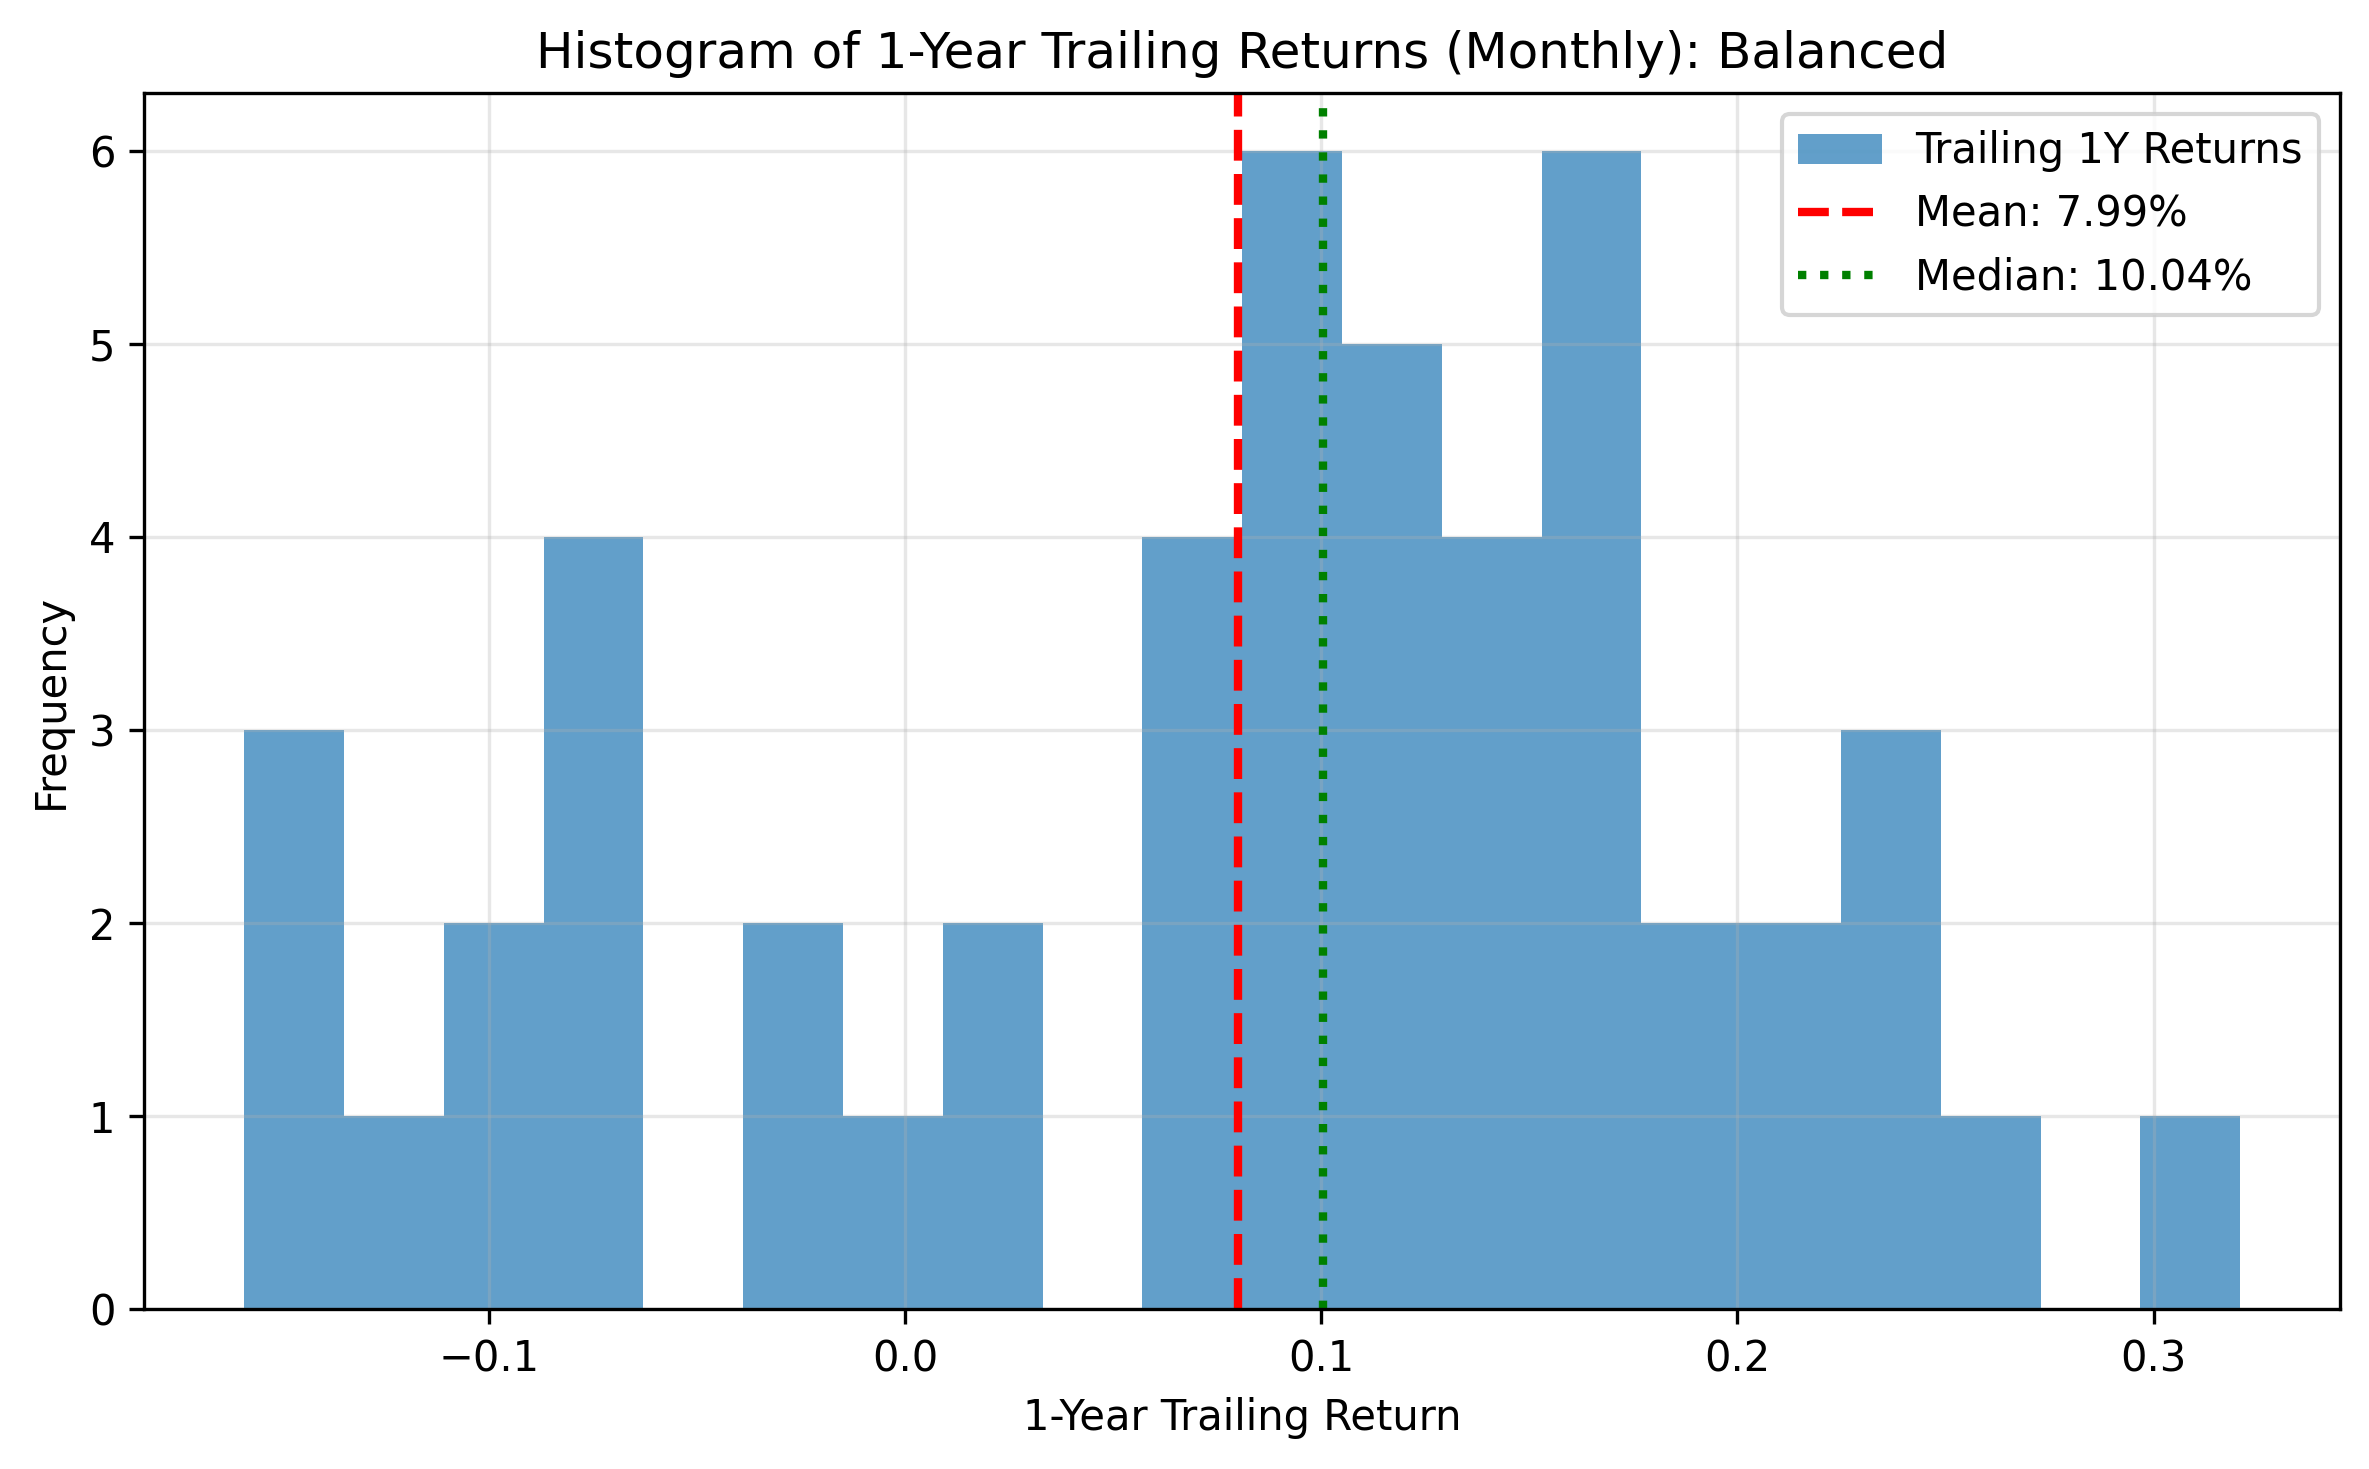
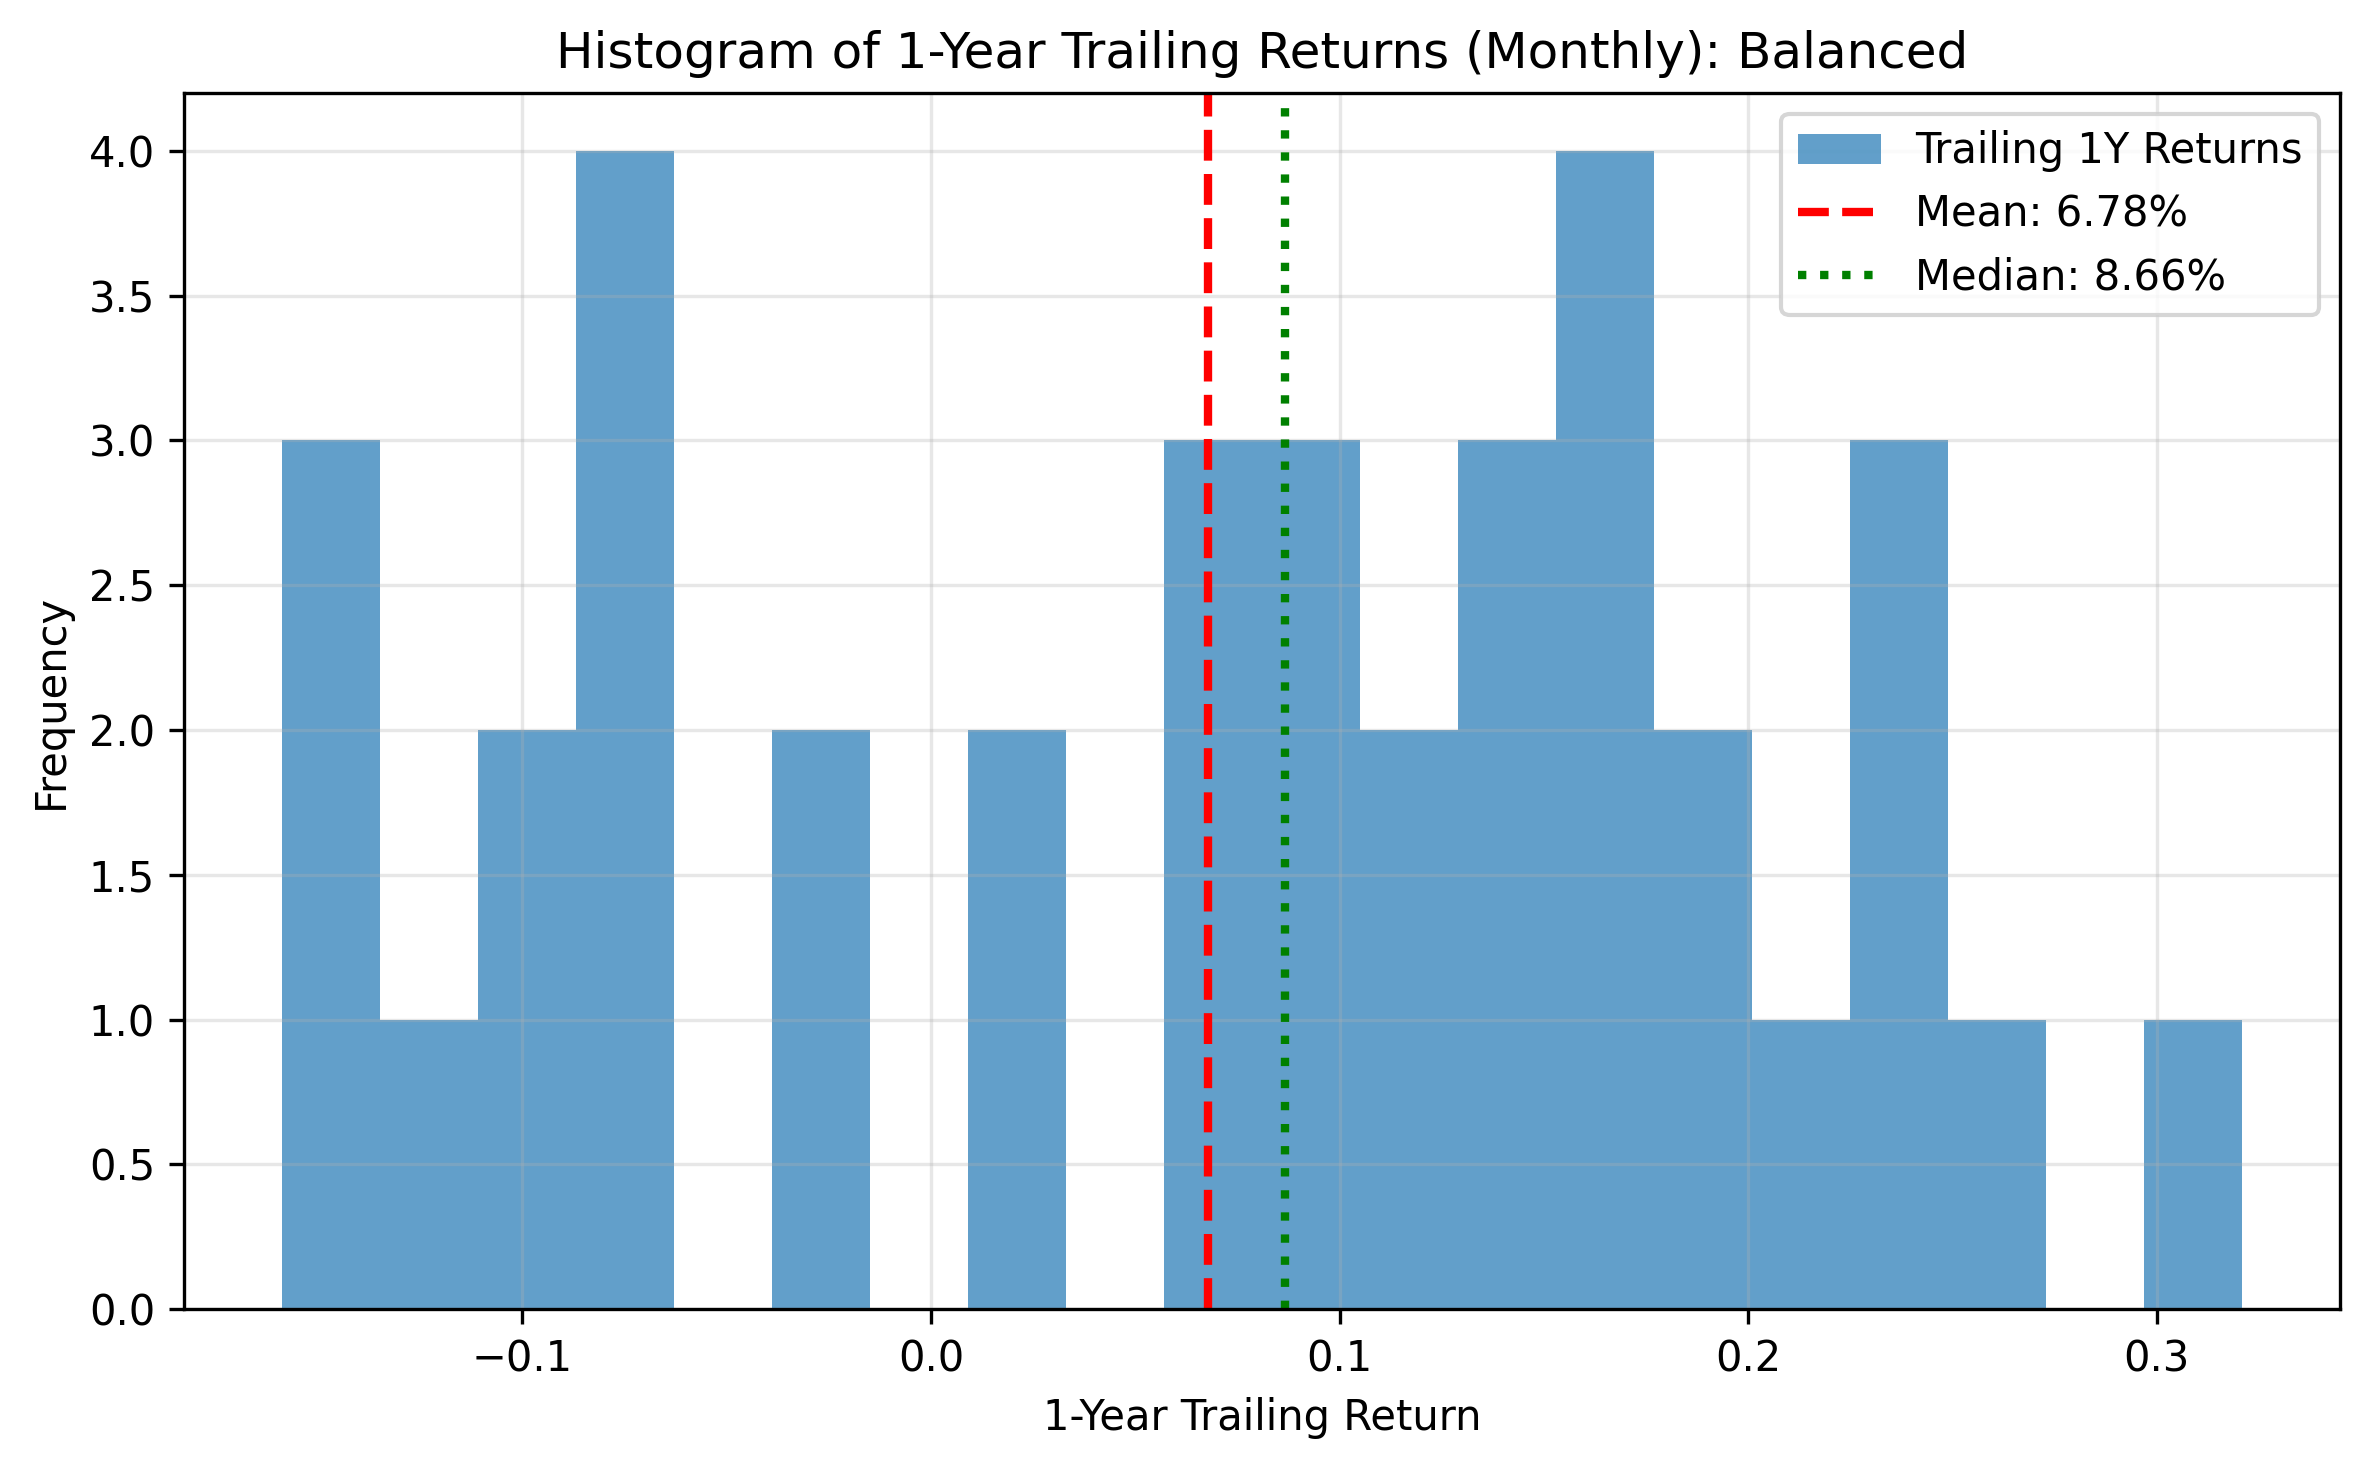
no longer using trailing returns for values outside the window of our selections

diff --git a/src/analysis/benchmark_analysis.py b/src/analysis/benchmark_analysis.py
@@ -563,6 +563,10 @@ def plot_histograms_of_annualized_returns(verbose: bool = False):
                 returns = (1 + series).resample(resample_rules[freq]).prod() - 1
             trailing = (1 + returns).rolling(window).apply(np.prod, raw=True) - 1
             trailing = trailing.dropna()
+            # Filter: Only include trailing returns after 1 year past the start of the test period
+            if not trailing.empty:
+                trailing_start_date = trailing.index[0] + pd.DateOffset(years=1)
+                trailing = trailing[trailing.index >= trailing_start_date]
             # Save trailing returns to CSV
             trailing_csv = base + f"_trailing_1yr_{freq}.csv"
             trailing.to_csv(trailing_csv)
